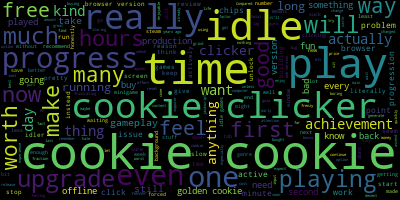
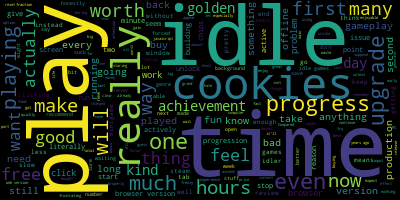
added more stopwordsds

diff --git a/createWordCloud.py b/createWordCloud.py
@@ -8,8 +8,7 @@ import matplotlib.pyplot as plt
 reviewList = grabReviewJSON.getList()
 collapsedList = ' '.join(reviewList)
 STOPWORDS.add('game')
+STOPWORDS.add('cookie')
+STOPWORDS.add('clicker')
 wordcloud = WordCloud().generate(text=collapsedList)
 wordcloud.to_file('first_100_neg.png')
-plt.imshow(wordcloud, interpolation='bilinear')
-plt.axis("off")
-plt.show()
